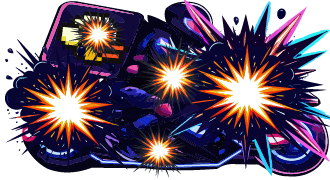
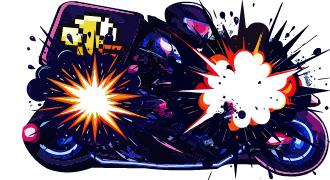
Add gamestate DYING that displays player crash texture

diff --git a/core/src/main/java/io/github/jumpyBirb/Main.java b/core/src/main/java/io/github/jumpyBirb/Main.java
@@ -113,6 +113,8 @@ public class Main extends ApplicationAdapter {
     private Settings settings;
     private String playerName = "Player";
     private boolean scoreSaved = false;
+    private float dyingTimer = 0f;
+    private static final float DYING_DURATION = 1.2f;
     private boolean sound = true;
     private boolean music = true;
 
@@ -272,7 +274,7 @@ public class Main extends ApplicationAdapter {
 
         batch.end();
 
-        if (gameState == GameState.RUNNING) {
+        if (gameState == GameState.RUNNING || gameState == GameState.DYING) {
             renderer.draw(
                     background,
                     player,
@@ -504,6 +506,26 @@ public class Main extends ApplicationAdapter {
             return;
         }
 
+        if (gameState == GameState.DYING) {
+            dyingTimer += delta;
+
+            background.update(delta);
+
+            if (dyingTimer >= DYING_DURATION) {
+
+                if (!scoreSaved) {
+                    Highscore.save(playerName, (int) finalScore);
+                    scoreSaved = true;
+                }
+
+                gameState = GameState.GAME_OVER;
+                inputGate.block(1f);
+                audio.playMenuMusic();
+            }
+
+            return;
+        }
+
         if (gameState == GameState.GAME_OVER) {
             if (inputGate.canAcceptInput() && menuConfirmPressed()) {
                 gameState = GameState.MENU;
@@ -644,27 +666,29 @@ public class Main extends ApplicationAdapter {
         audio.playGameMusic();
     }
 
+    private double getFinalScore() {
+        return score.getScore();
+    }
+
     /**
      * Ends the current run and switches the game to GAME_OVER state.
      *
      * <p>
      * The current score is saved so it can still be displayed after the run ends.
      */
+
+
     private void gameOver() {
-        if (gameState != GameState.GAME_OVER) {
+        if (gameState != GameState.DYING && gameState != GameState.GAME_OVER) {
+
             score.stopScore();
-            finalScore = score.getScore();
+            finalScore = getFinalScore();
 
-            if (!scoreSaved) {
-                Highscore.save(playerName, (int) finalScore);
-                scoreSaved = true;
-            }
+            gameState = GameState.DYING;
+            dyingTimer = 0f;
 
-            gameState = GameState.GAME_OVER;
-            inputGate.block(1f);
             audio.stopJump();
             audio.playCrash();
-            audio.playMenuMusic();
         }
     }
 

diff --git a/core/src/main/java/io/github/jumpyBirb/graphics/GameRenderer.java b/core/src/main/java/io/github/jumpyBirb/graphics/GameRenderer.java
@@ -130,7 +130,7 @@ public record GameRenderer(SpriteBatch batch,
             float podWidth,
             float podHeight) {
         // RENDERER SKA INTE RITA I MENY, HIGH_SCORE, SETTINGS
-        if (gameState != GameState.RUNNING && gameState != GameState.GAME_OVER) {
+        if (gameState != GameState.RUNNING && gameState != GameState.DYING && gameState != GameState.GAME_OVER) {
             return;
         }
         // Clear the screen before drawing the next frame.
@@ -216,8 +216,16 @@ public record GameRenderer(SpriteBatch batch,
         // }
 
         // Draw the player.
-        Texture playerTexture = getPlayerTexture(player);
-        float rotation = getPlayerRotation(player);
+        Texture playerTexture;
+        float rotation;
+
+        if (gameState == GameState.DYING) {
+            playerTexture = assets.playerCrash;
+          rotation = getPlayerRotation(player);
+                   } else {
+            playerTexture = getPlayerTexture(player);
+            rotation = getPlayerRotation(player);
+        }
 
         batch.draw(
             playerTexture,

diff --git a/core/src/main/java/io/github/jumpyBirb/game/GameState.java b/core/src/main/java/io/github/jumpyBirb/game/GameState.java
@@ -3,6 +3,7 @@ package io.github.jumpyBirb.game;
 public enum GameState {
     START,
     RUNNING,
+    DYING,
     GAME_OVER,
     SETTINGS,
     HIGH_SCORE,